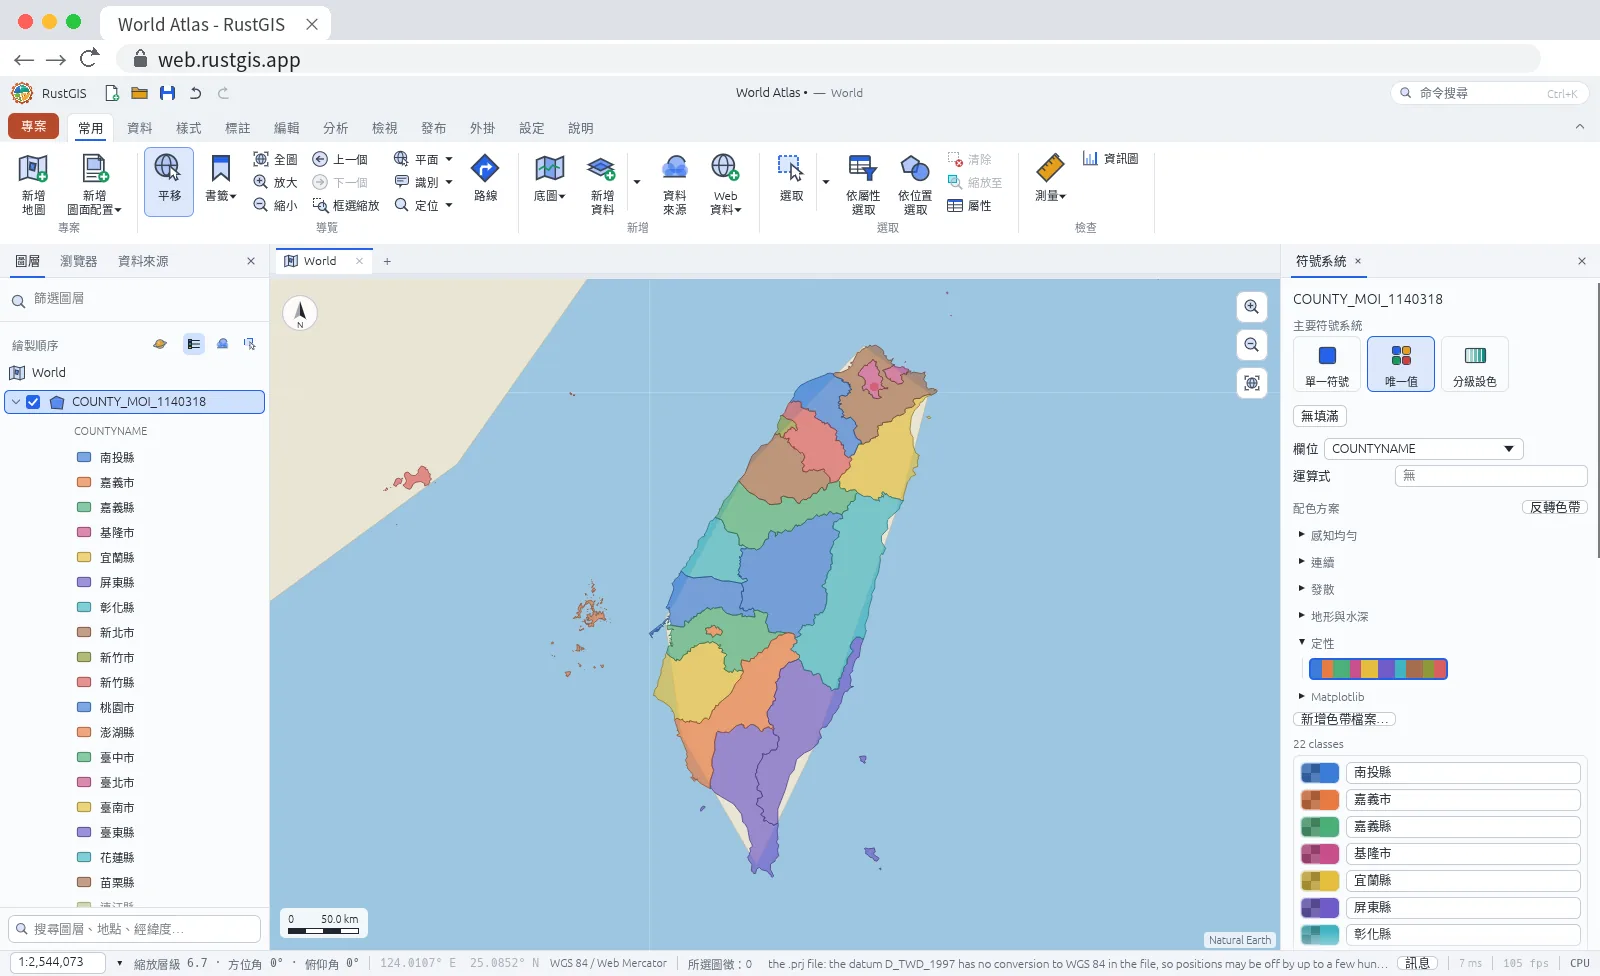
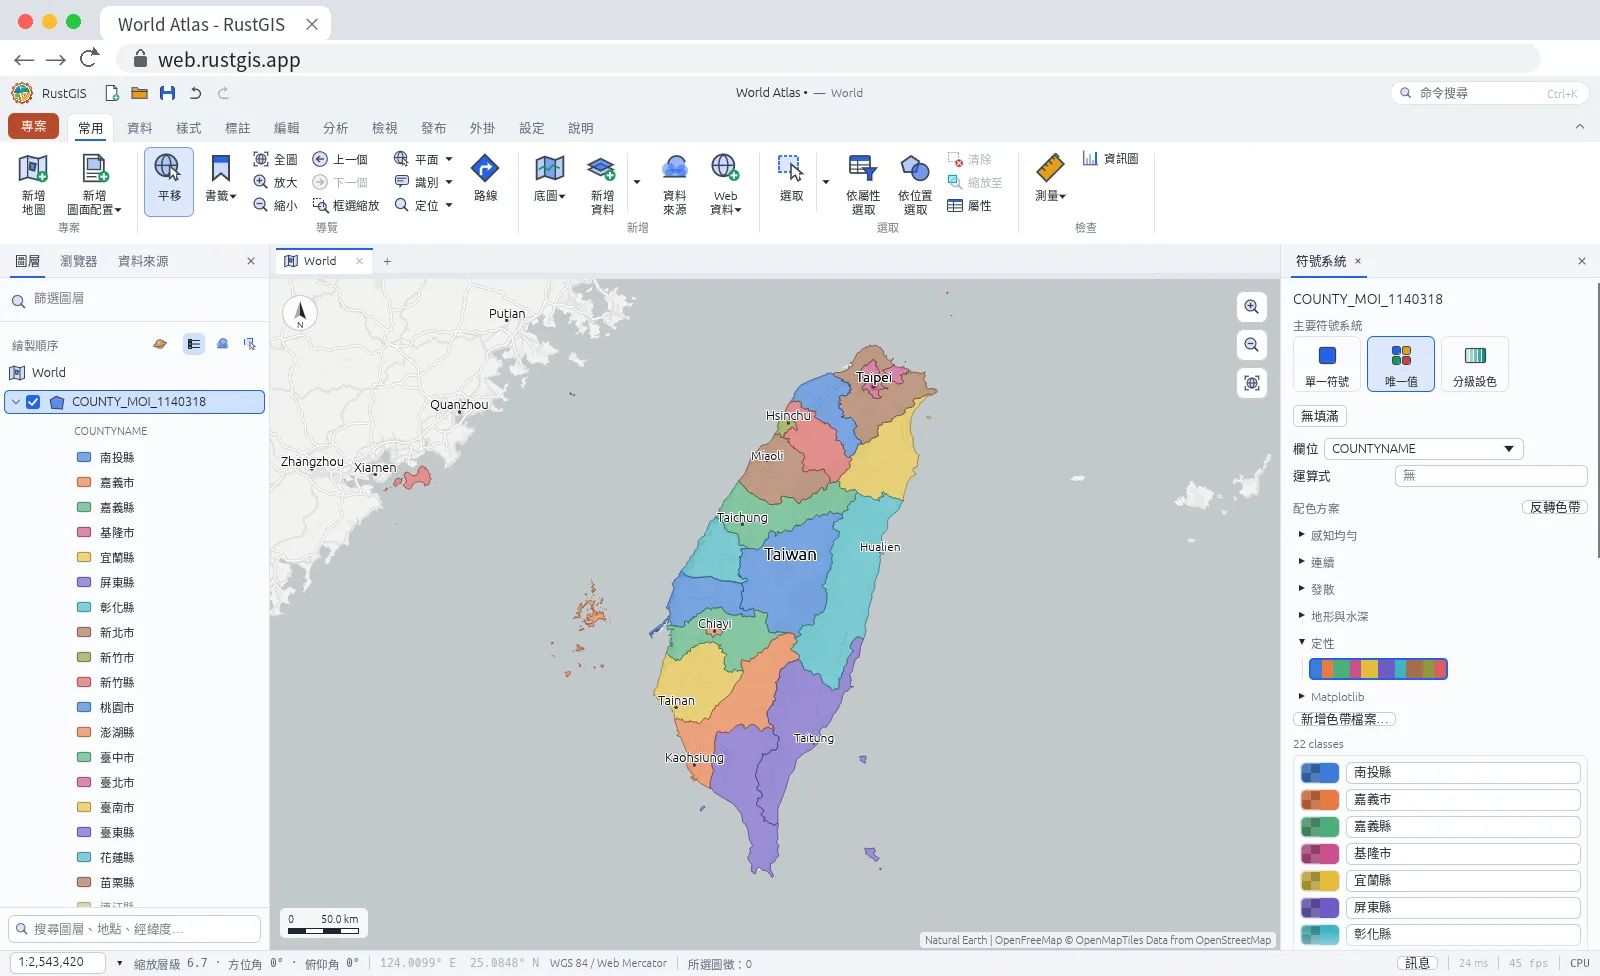
Lessons 2-5: switch to an accurate basemap (OpenFreeMap Positron) so the boundaries line up; reshoot

diff --git a/docs/tutorials/02-load-boundaries.md b/docs/tutorials/02-load-boundaries.md
@@ -46,14 +46,23 @@
 
 這份資料除了臺灣本島、澎湖、金門、馬祖，還包含**東沙島**和**南沙太平島**（屬於高雄市）。圖層的範圍從北緯 10 度延伸到 26 度，所以縮放到整個圖層時，臺灣只佔畫面的一角。
 
-用滑鼠滾輪放大到臺灣附近，就能看清楚各縣市的界線：
+## 換一個詳細的底圖
 
-![放大到臺灣後的縣市界線](../images/02-county.webp)
+範例專案的底圖是 Natural Earth 的全世界小比例尺輪廓，臺灣只用很少的點描出來。看整個世界沒問題，但放大到臺灣時，海岸線會和縣市界線差好幾公里，看起來像沒對齊。這不是資料的問題，是底圖太粗略。
 
-!!! warning "縣市界線和底圖的海岸線好像沒對齊？"
-    放大後，縣市界線的邊緣和底圖的陸地可能差了幾公里。這不是資料的問題：範例專案的底圖是 Natural Earth 的全世界小比例尺輪廓，臺灣只用很少的點描出來，本來就畫得很粗略。
+換成詳細的底圖：
 
-    想對照位置的話，可以換成詳細的底圖：按 **常用 › 底圖**，在「Web 底圖」選 **OpenFreeMap Positron** 或 **OpenFreeMap Liberty**。這些底圖來自 OpenStreetMap，放大到鄉鎮也會和縣市界線吻合。
+1. 在 **常用** 頁籤按 **底圖**。
+2. 在「Web 底圖」選 **OpenFreeMap Positron**。
+
+用滑鼠滾輪放大到臺灣附近，縣市界線和底圖的海岸線就對齊了：
+
+![換成 OpenFreeMap Positron 底圖，放大到臺灣後的縣市界線](../images/02-county.webp)
+
+OpenFreeMap 的底圖來自 OpenStreetMap，全世界都很詳細，放大到鄉鎮也會和縣市界線吻合。底圖上的英文地名（例如 Taichung）是底圖本身的文字，不是我們的資料。接下來的課程都用這個底圖。
+
+!!! tip "其他詳細的底圖"
+    「Web 底圖」裡還有 **OpenFreeMap Liberty**、**Bright** 等彩色地圖，以及 **USGS Imagery** 衛星影像。USGS Imagery 是美國的服務，美國以外只有看全臺灣這種比例尺的影像，再放大就沒有了；第 4 課最後會用它做出完整的地圖。
 
 ## 看看屬性表
 

diff --git a/docs/tutorials/03-attribute-table.md b/docs/tutorials/03-attribute-table.md
@@ -3,7 +3,7 @@
 這一課會打開縣市界線的屬性表，用表格、條件和滑鼠找出想要的縣市。
 
 **需要的時間**：約 20 分鐘
-**需要的東西**：完成[第 2 課](02-load-boundaries.md)，在 RustGIS 開好 `COUNTY_MOI_1140318` 圖層。如果關掉過網頁，請照第 2 課再新增一次資料。
+**需要的東西**：完成[第 2 課](02-load-boundaries.md)，在 RustGIS 開好 `COUNTY_MOI_1140318` 圖層，底圖換成 OpenFreeMap Positron。如果關掉過網頁，請照第 2 課再新增一次資料。
 
 !!! tip "先隱藏國家圖層"
     範例專案的 **Countries** 圖層也畫在臺灣上。在圖層面板取消勾選 **Countries**，地圖會比較清楚，也不會點到別的圖層。

diff --git a/docs/tutorials/05-buffer.md b/docs/tutorials/05-buffer.md
@@ -3,7 +3,7 @@
 這一課會畫出臺北市周圍 10 公里的範圍，再找出哪些縣市碰到這個範圍。
 
 **需要的時間**：約 20 分鐘
-**需要的東西**：完成[第 2 課](02-load-boundaries.md)，在 RustGIS 開好 `COUNTY_MOI_1140318` 圖層，並取消勾選 **Countries** 圖層。會用到[第 3 課](03-attribute-table.md)的「依屬性選取」。
+**需要的東西**：完成[第 2 課](02-load-boundaries.md)，在 RustGIS 開好 `COUNTY_MOI_1140318` 圖層，底圖換成 OpenFreeMap Positron，並取消勾選 **Countries** 圖層。會用到[第 3 課](03-attribute-table.md)的「依屬性選取」。
 
 ## 環域是什麼？
 
